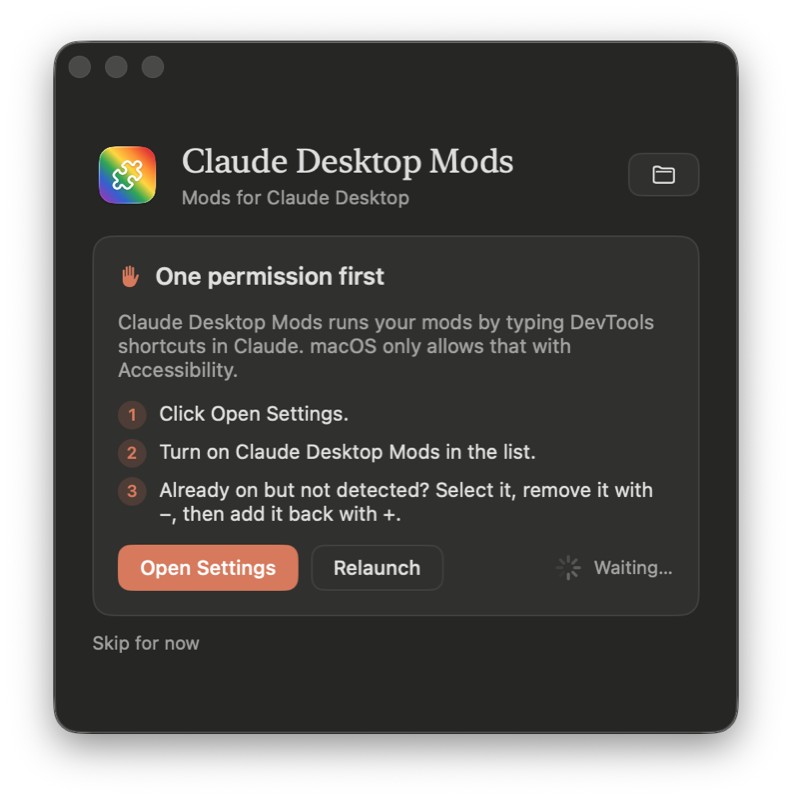
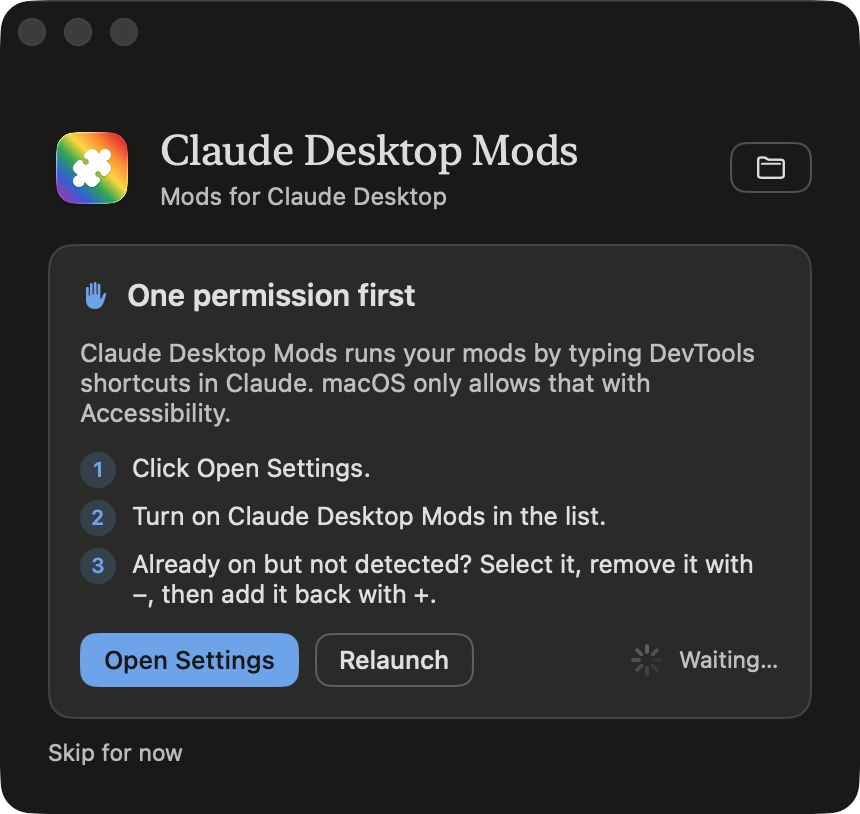
App 1.0.1: size the window to the permission screen
The window fits the permission card, then grows to the main screen once
Accessibility is allowed, and stays resizable there.

diff --git a/app/ClaudeDesktopMods.swift b/app/ClaudeDesktopMods.swift
@@ -973,6 +973,7 @@ struct ContentView: View {
                 }
                 .frame(minHeight: 420, maxHeight: .infinity)
             } else {
+                // Fixed size: with .contentSize the window fits it, then grows for the main screen.
                 VStack(alignment: .leading, spacing: 16) {
                     header
                     permissionStep
@@ -982,9 +983,9 @@ struct ContentView: View {
                 // Clears the traffic lights of the hidden title bar.
                 .padding(.top, 30)
                 .frame(width: 430)
+                .fixedSize(horizontal: false, vertical: true)
             }
         }
-        .frame(maxWidth: .infinity, maxHeight: .infinity)
         .background(Color.canvas)
         .alert(
             "Turn off Claude Desktop Mods?",
@@ -1406,7 +1407,7 @@ struct ClaudeDesktopModsApp: App {
             ContentView().environmentObject(model)
         }
         .defaultSize(width: 680, height: 420)
-        .windowResizability(.contentMinSize)
+        .windowResizability(.contentSize)
         .windowStyle(.hiddenTitleBar)
 
         MenuBarExtra("Claude Desktop Mods", systemImage: "puzzlepiece.extension.fill") {
